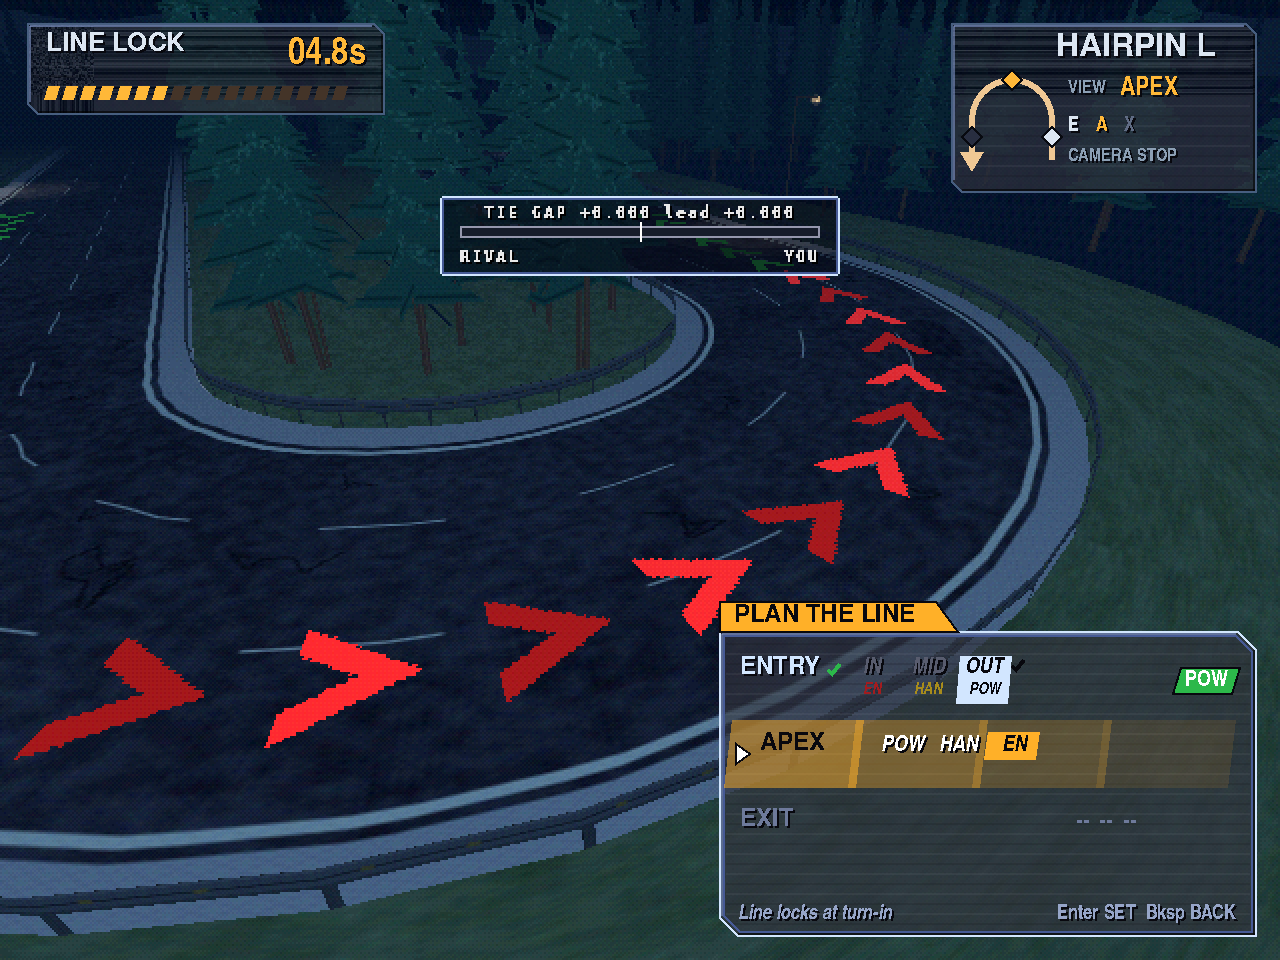
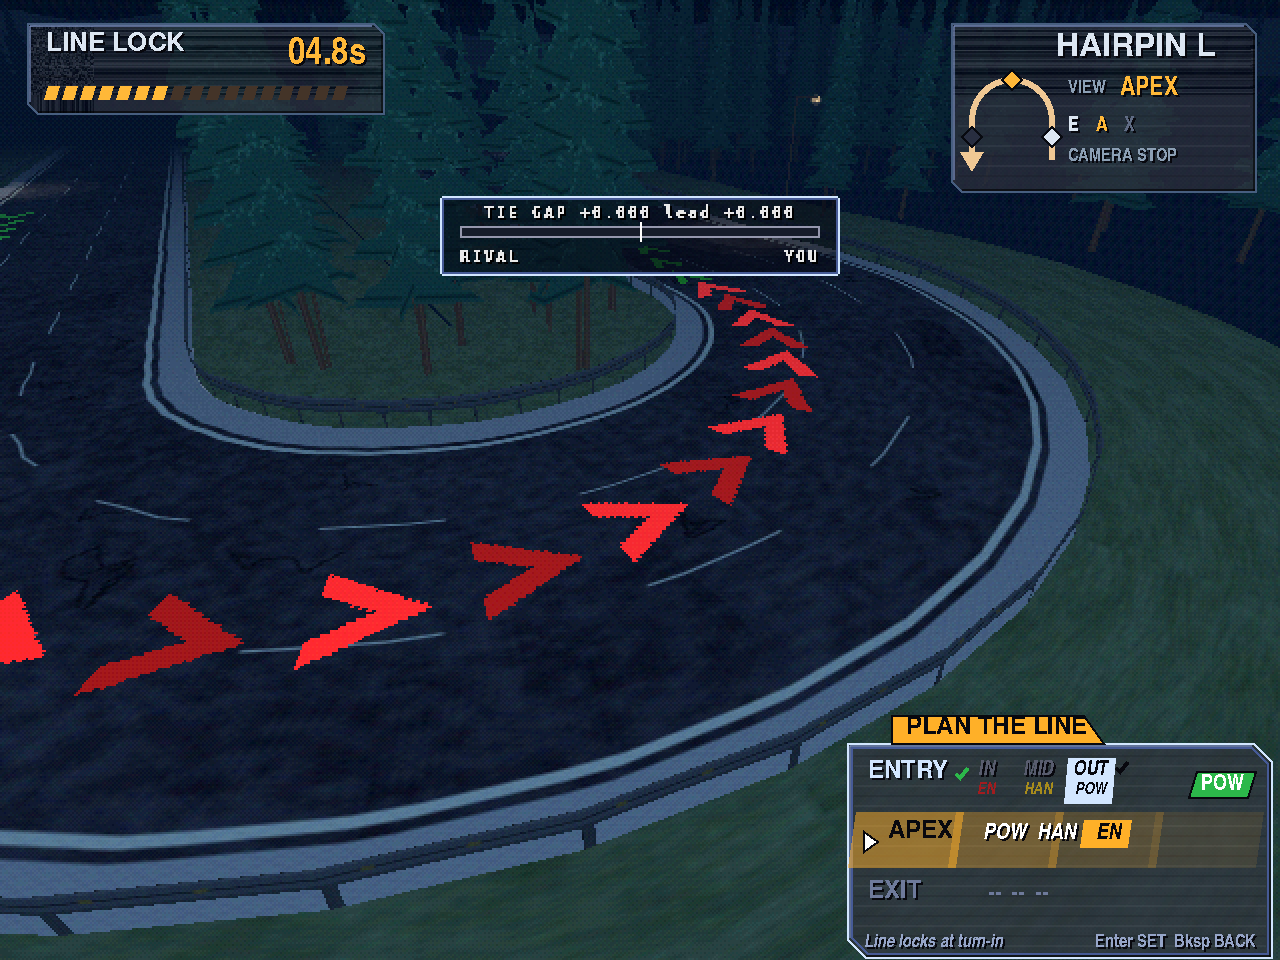
Add unapproved line-preview pass 4: wider stance bends, clearer follow-on, slimmer plan panel
POW hugs the outer line, EN cuts hard to the inner line, and HAN sits mid-lane, a full lane apart so the variants read side-by-side. Follow-on previews are solid at about 66% brightness and slightly thinner. The plan panel is narrower, lower, and further right so it no longer covers the MX5 in the chase shot.

diff --git a/unapproved/arthur/mockups/line_preview/README.md b/unapproved/arthur/mockups/line_preview/README.md
@@ -8,9 +8,9 @@ Camera-stop frames match Gordon's current build (shots11): his left-hand Touge h
 
 Overview frames use a high camera above and outside the left hairpin so the whole hook is visible. Camera-stop frames use Gordon's B.5b poses (same math as `main.gd`, framed like `prototypes/two-corner/out/shots11/gif_frames/f00030.png` for Entry and the Apex / Exit stops in that sequence). Road, lamps and pools are his touge dressing, not the earlier pack overlay, so the asphalt stays dark navy grey outside the sodium pools (B.2a). Grit reads mainly inside the pools.
 
-Chevrons (B.5d): painted flat on the road in the 3D layer, pointing in the direction of travel, evenly spaced. Each segment is solid in that segment's stance colour (POW `#2CB84A`, EN `#E8282C`, HAN `#F0C828`). A slight brightness ramp along a segment, no yellow-to-red gradient across the line. Locked / hovered segments are solid (hovered is a lighter, slightly gapped variant). Not-yet-chosen follow-on segments use the same hue, dimmer. No glow.
+Chevrons (B.5d): painted flat on the road in the 3D layer, pointing in the direction of travel, evenly spaced. Each segment is solid in that segment's stance colour (POW `#2CB84A`, EN `#E8282C`, HAN `#F0C828`). A slight brightness ramp along a segment, no yellow-to-red gradient across the line. Locked / hovered segments are solid (hovered is a lighter, slightly gapped variant). Not-yet-chosen follow-on segments (the Exit preview after each Apex, and the implied Apex/Exit after Entry) are the same hue, solid at about 66% brightness and slightly thinner, with no glow, so they stay clearly visible but secondary.
 
-Canonical sequence everywhere: Entry OUT + POW, Apex EN, Exit POW. Placeholder bends (Austin 2026-11-12): the Entry segment stays in the chosen Entry lane. The Apex segment starts where Entry ended; POW bends to the outer line of the corner, EN cuts toward the inner line by 2/3 of a lane width, HAN runs mid-lane. Exit starts where Apex ended and uses the same map. This matches the lanes: OUT = POW, IN = EN, MID = HAN, the same on left and right turns.
+Canonical sequence everywhere: Entry OUT + POW, Apex EN, Exit POW. Placeholder bends (Austin pass 4): the Entry segment stays in the chosen Entry lane. The Apex segment starts where Entry ended; POW hugs the outer line, EN cuts hard to the inner line (full lane width), HAN sits clearly mid-lane. Exit starts where Apex ended and uses the same map. The three variants are spaced a full lane apart so they read apart side-by-side.
 
 ### Pass 3 stance variants (camera-stop framing)
 
@@ -39,7 +39,7 @@ One contact sheet, plus the individual PNGs. Implied follow-on segments are draw
 
 ## HUD layout (these frames only)
 
-Combined PLAN THE LINE panel, bottom right. Three phase rows (ENTRY, APEX, EXIT). The active row is amber-highlighted with a caret. On Entry you pick the lane (IN / MID / OUT, left-corner on-screen order) and the stance (POW / HAN / EN) on that row; each lane carries a small note of the stat it needs (OUT = POW, MID = HAN, IN = EN). On Apex and Exit you pick the stance the same way. Locked rows show the chosen lane (Entry) and a single coloured stance chip (POW / HAN / EN) — there is no second tag chip. The hovered stance on the active row is the highlighted chip. Pending rows show dashes. The race-split / tie-gap bar sits at the top centre, directly under the REAR VIEW label (the same slot when the mirror is off at the Apex and Exit stops). Gordon's files are untouched; this is only in the mockup HUD copies.
+Combined PLAN THE LINE panel, bottom right. Three phase rows (ENTRY, APEX, EXIT). The active row is amber-highlighted with a caret. On Entry you pick the lane (IN / MID / OUT, left-corner on-screen order) and the stance (POW / HAN / EN) on that row; each lane carries a small note of the stat it needs (OUT = POW, MID = HAN, IN = EN). On Apex and Exit you pick the stance the same way. Locked rows show the chosen lane (Entry) and a single coloured stance chip (POW / HAN / EN) — there is no second tag chip. The hovered stance on the active row is the highlighted chip. Pending rows show dashes. The panel is slimmed and shifted down and to the right (pass 4) so it does not cover the MX5 in the chase shot. The race-split / tie-gap bar sits at the top centre, directly under the REAR VIEW label (the same slot when the mirror is off at the Apex and Exit stops). Gordon's files are untouched; this is only in the mockup HUD copies.
 
 Pipeline: 3D at 640×480 with no AA, then RGB555 + 4×4 Bayer, then one 2× nearest upscale. The HUD is composited after that, drawn sharp and pixel-hard at 1280×960 (no font AA, 2 px hard shadow). Plates use a noisy fill, a hard bevel and light banding, with heavier titles, in a Racing Lagoon / Gran Turismo 2 direction.
 
